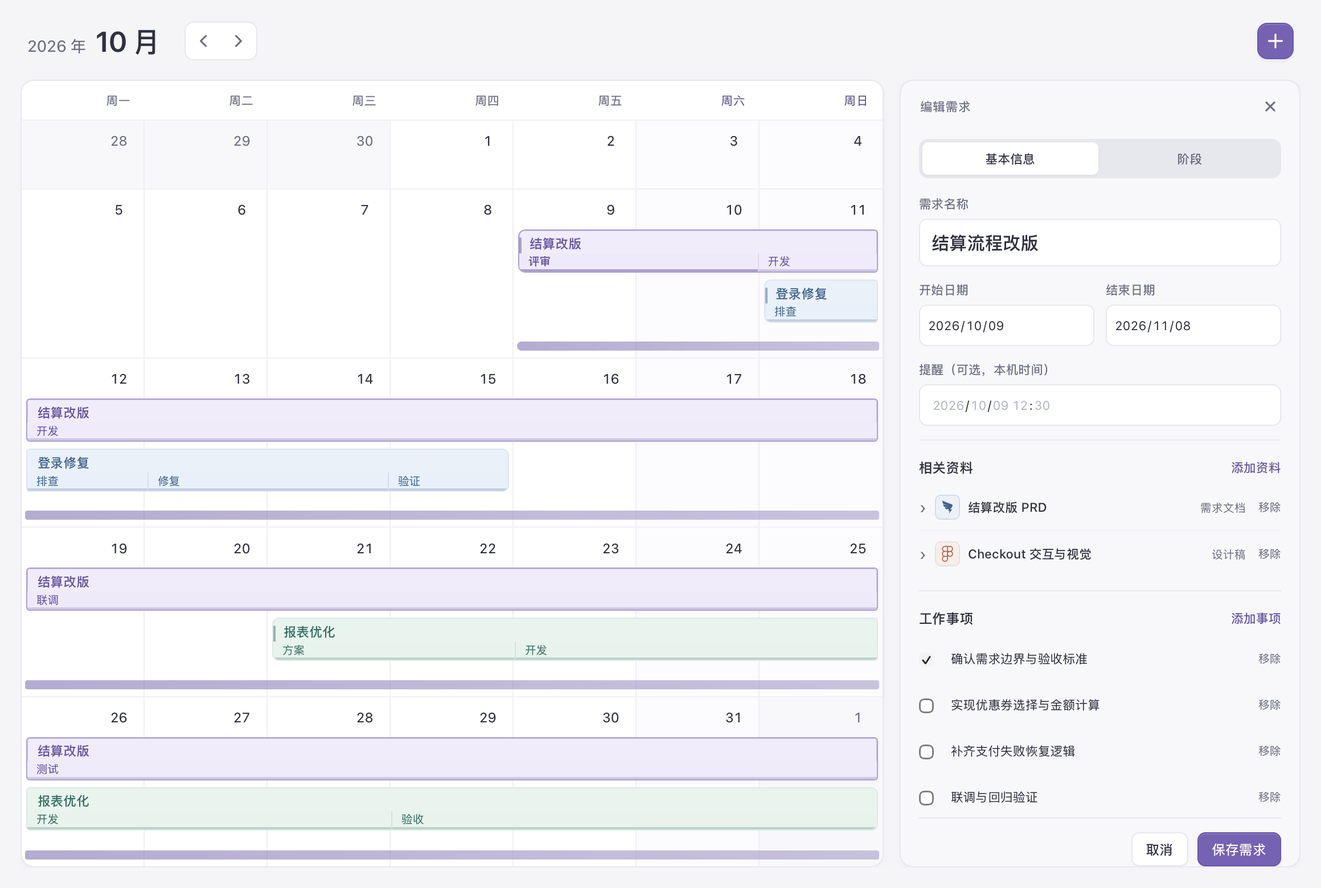
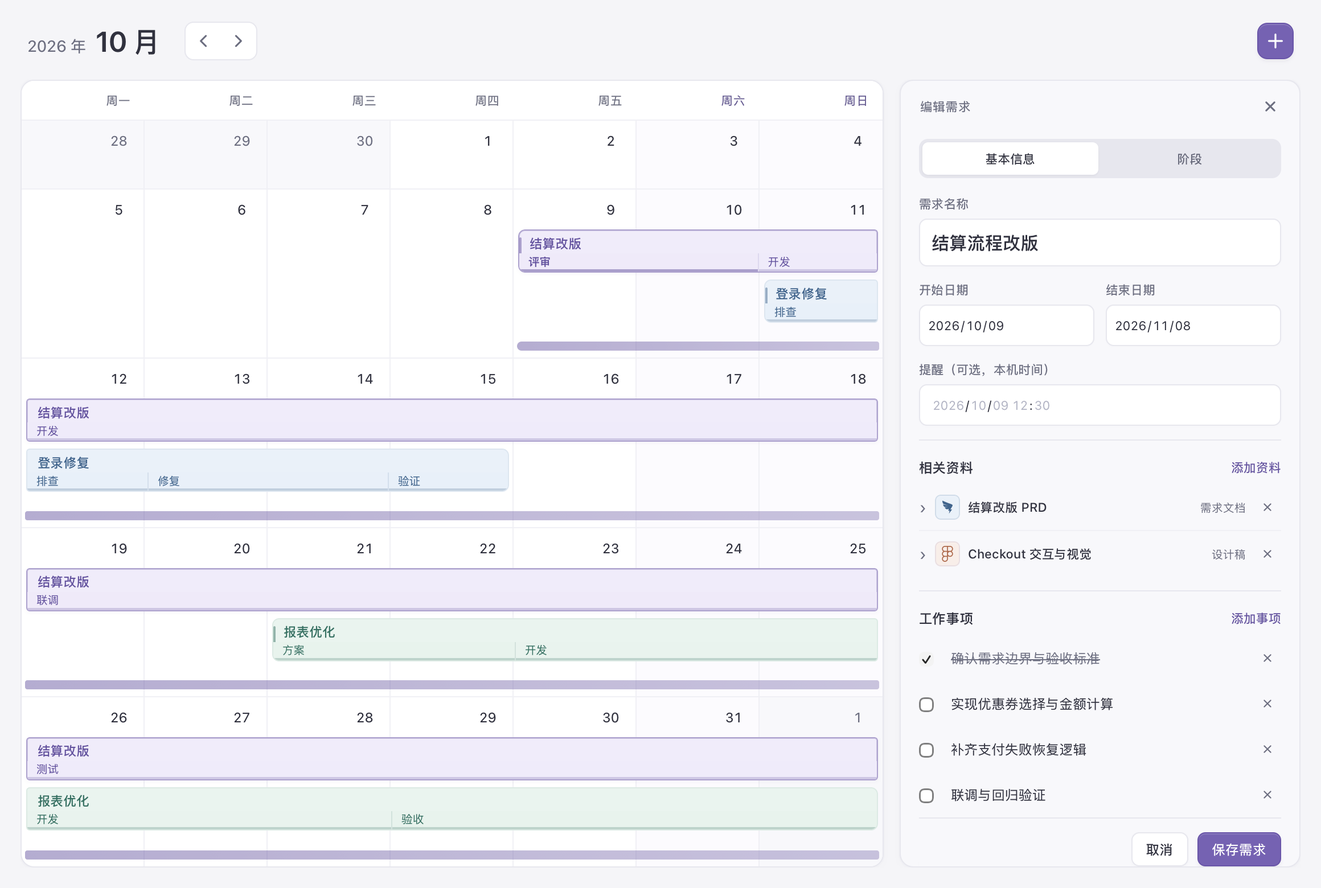
refine: simplify editor row actions and completion cues
Replace repeated removal text with consistent visible icon buttons, named tooltips and accessible labels that follow edited row names. Keep dedicated action targets and compact row spacing while making task text more readable and completed work distinct.

Verify isolated native row removal, neighboring and empty-list focus, draft discard, saved task completion and phase/resource associations in both appearances. Refresh actual editor screenshots and record focused-CSS verification limits.

Changed region(s): [[0.7138, 0.7385, 0.8379, 0.8], [0.7138, 0.8308, 0.8379, 0.8615], [0.7138, 0.8923, 0.8069, 0.9231]]

diff --git a/index.html b/index.html
@@ -30,6 +30,7 @@ html,body { margin:0; min-height:100%; background:light-dark(#f5f5f8,#191b20); }
  --rf-inspector-width:352px;
  --rf-row-height:136px;
  --rf-weekday-height:35px;
+ --rf-remove-size:24px;
  --rf-ease:cubic-bezier(.22,.7,.25,1);
  display:flex; flex-direction:column; height:100vh; min-height:0; overflow:hidden;
  font:13px/1.5 -apple-system,BlinkMacSystemFont,"Segoe UI",sans-serif;
@@ -201,11 +202,14 @@ html.native #req-calendar-refined .rf-week { height:auto; min-height:calc(54px +
 #req-calendar-refined .rf-summary-name { flex:1; min-width:0; font-weight:500; overflow:hidden; text-overflow:ellipsis; white-space:nowrap; }
 #req-calendar-refined .rf-summary-meta { flex:none; max-width:90px; font-size:10px; color:var(--rf-muted); overflow:hidden; text-overflow:ellipsis; white-space:nowrap; }
 #req-calendar-refined .rf-item-fields { display:grid; gap:9px; padding:5px 0 12px; }
-#req-calendar-refined .rf-editor-item>.rf-remove { position:absolute; top:10px; right:0; }
-#req-calendar-refined .rf-remove { padding:2px 0; font-size:10px; color:var(--rf-muted); }
-#req-calendar-refined .rf-remove:hover { color:light-dark(#a55662,#eca4b1); }
-#req-calendar-refined .rf-task-edit { display:grid; grid-template-columns:13px minmax(0,1fr) auto; align-items:center; gap:7px; padding:5px 0; }
-#req-calendar-refined .rf-task-edit input[type=text] { width:100%; min-width:0; padding:6px 7px; background:var(--rf-soft); border:1px solid transparent; border-radius:5px; font-size:11px; }
+#req-calendar-refined .rf-editor-item>.rf-remove { position:absolute; top:8px; right:0; }
+#req-calendar-refined .rf-remove { display:grid; place-items:center; flex:none; width:var(--rf-remove-size); height:var(--rf-remove-size); padding:0; border-radius:5px; color:var(--rf-muted); }
+#req-calendar-refined .rf-remove svg { width:14px; height:14px; stroke-width:1.5; }
+#req-calendar-refined .rf-remove:hover,#req-calendar-refined .rf-remove:focus-visible { color:light-dark(#a55662,#eca4b1); background:light-dark(#f5e9ed,#422b34); }
+#req-calendar-refined .rf-remove:active { background:light-dark(#efdae1,#55313f); }
+#req-calendar-refined .rf-task-edit { display:grid; grid-template-columns:13px minmax(0,1fr) var(--rf-remove-size); align-items:center; gap:7px; padding:4px 0; }
+#req-calendar-refined .rf-task-edit input[type=text] { width:100%; min-width:0; padding:6px 7px; background:transparent; border:1px solid transparent; border-radius:5px; font-size:12px; }
+#req-calendar-refined .rf-task-edit:has(input:checked) input[type=text]:not(:focus) { color:var(--rf-muted); text-decoration:line-through; }
 #req-calendar-refined .rf-task-edit input[type=text]:focus { outline:1px solid var(--rf-purple); background:var(--rf-bg); }
 #req-calendar-refined .rf-form-actions { position:sticky; bottom:-16px; z-index:2; flex:none; display:flex; justify-content:flex-end; gap:8px; margin-top:0; padding:12px 0 0; border-top:1px solid var(--rf-line); background:var(--rf-panel-surface); box-shadow:0 16px 0 var(--rf-panel-surface); }
 #req-calendar-refined .rf-form :is(input,textarea,summary) { scroll-margin-top:58px; scroll-margin-bottom:58px; }
@@ -271,6 +275,7 @@ html.native #req-calendar-refined .rf-week { height:auto; min-height:calc(54px +
  #req-calendar-refined .rf-detail-columns { display:block; }
 }
 @media(pointer:coarse) {
+ #req-calendar-refined { --rf-remove-size:40px; }
  #req-calendar-refined :is(.rf-arrow,.rf-close,.rf-add,.rf-button,.rf-text-button,.rf-remove,.rf-editor-tab) { min-width:40px; min-height:40px; }
  #req-calendar-refined .rf-editor-item>.rf-remove { top:0; }
  #req-calendar-refined .rf-item-summary { min-height:44px; padding-right:42px; }
@@ -639,6 +644,7 @@ window.CalendarReady=(async()=>{
  const {parse,iso,add,days,format,validDate}=Model,req=id=>requirements.find(r=>r.id===id);
  const el=(tag,cls,text)=>{const n=document.createElement(tag);if(cls)n.className=cls;if(text!==undefined)n.textContent=text;return n;};
  const button=(cls,text,label,action)=>{const b=el('button',cls+' cursor-interaction',text);b.type='button';if(label)b.setAttribute('aria-label',label);b.addEventListener('click',action);return b;};
+ const removeButton=(kind,name,action)=>{const control=button('rf-remove','',null,action);control.append(get('rf-close').querySelector('svg').cloneNode(true));const label=()=>{control.title='移除'+kind+'：'+(name.value.trim()||'未命名'+kind);control.setAttribute('aria-label',control.title);};name.addEventListener('input',label);label();return control;};
  const field=(label,input)=>{const l=el('label','rf-field');l.append(el('span','',label),input);return l;};
  const input=(type,value='',placeholder='')=>{const n=el('input');n.type=type;n.value=value;n.placeholder=placeholder;if(type==='date'){n.min='0001-01-01';n.max='9999-12-31';}else if(type==='datetime-local'){n.min='0001-01-01T00:00';n.max='9999-12-31T23:59';}return n;};
  let storage=null;try{storage=window.localStorage;}catch{}
@@ -702,7 +708,7 @@ window.CalendarReady=(async()=>{
    const updateSummary=()=>{if(summaryIcon){const icon=symbolForResource(row);void siteIcons.apply(summaryIcon,row.url.value,icon,{fetch:false});}summaryName.title=name.value;summaryName.textContent=name.value.trim()||(kind==='phase'?'未命名阶段':'未命名资料');summaryMeta.textContent=kind==='phase'?(row.start.value&&row.end.value?rangeText(row.start.value,row.end.value):'设置日期'):row.type.value.trim()||'自定义资料';};
    updateSummary();fields.addEventListener('input',updateSummary);if(summaryIcon)fields.addEventListener('change',()=>{const icon=symbolForResource(row);void siteIcons.apply(summaryIcon,row.url.value,icon);});fields.addEventListener('invalid',()=>{disclosure.open=true;},true);
    disclosure.addEventListener('toggle',()=>{if(disclosure.open)rows.forEach(other=>{if(other!==row)other.disclosure.open=false;});});
-   disclosure.append(summary,fields);item.append(disclosure,button('rf-remove','移除',kind==='phase'?'移除此阶段':'移除此资料',()=>{const index=rows.indexOf(row);item.remove();rows.splice(index,1);(rows[index]?.disclosure.querySelector('summary')||rows[index-1]?.disclosure.querySelector('summary')||head.querySelector('button')).focus();}));rows.push(row);list.append(item);
+   disclosure.append(summary,fields);item.append(disclosure,removeButton(kind==='phase'?'阶段':'资料',name,()=>{const index=rows.indexOf(row);item.remove();rows.splice(index,1);(rows[index]?.disclosure.querySelector('summary')||rows[index-1]?.disclosure.querySelector('summary')||head.querySelector('button')).focus();}));rows.push(row);list.append(item);
    if(expand){rows.forEach(other=>other.disclosure.open=other===row);name.focus({preventScroll:true});}
   }
   initial.forEach(value=>addItem(value));
@@ -769,7 +775,7 @@ window.CalendarReady=(async()=>{
  get('rf-discard-save').addEventListener('click',async()=>{get('rf-discard').close();const ok=await editor?.submit();if(!ok)pendingAction=null;});
  window.addEventListener('beforeunload',event=>{if(editor?.isDirty()){event.preventDefault();event.returnValue='';}});
  function taskEditor(draft){const section=el('section','rf-editor-section'),heading=el('div','rf-heading'),list=el('div');heading.append(el('h3','','工作事项'),button('rf-text-button','添加事项',null,()=>append('',false,true)));section.append(heading,list);
-  function append(text,done,focus=false){const row=el('div','rf-task-edit'),check=input('checkbox'),name=input('text',text,'可验收的具体事项');check.checked=done;check.setAttribute('aria-label','事项已完成');name.setAttribute('aria-label','事项内容');name.required=true;name.maxLength=200;row.append(check,name,button('rf-remove','移除','移除此事项',()=>{const next=row.nextElementSibling?.querySelector('input[type=text]')||row.previousElementSibling?.querySelector('input[type=text]');row.remove();(next||heading.querySelector('button')).focus();}));list.append(row);if(focus)name.focus();}
+  function append(text,done,focus=false){const row=el('div','rf-task-edit'),check=input('checkbox'),name=input('text',text,'可验收的具体事项');check.checked=done;check.setAttribute('aria-label','事项已完成');name.setAttribute('aria-label','事项内容');name.required=true;name.maxLength=200;row.append(check,name,removeButton('事项',name,()=>{const next=row.nextElementSibling?.querySelector('input[type=text]')||row.previousElementSibling?.querySelector('input[type=text]');row.remove();(next||heading.querySelector('button')).focus();}));list.append(row);if(focus)name.focus();}
   draft.tasks.forEach((text,i)=>append(text,draft.done[i]));return section;
  }
  async function deleteRequirement(id,force=false){if(saving)return false;if(!force&&editor?.isDirty()){mayLeave(()=>deleteRequirement(id,true));return false;}const item=req(id);if(!item)return;const next=requirements.filter(r=>r.id!==id);setSaving(true);const ok=await save(next);setSaving(false);if(!ok)return;requirements=next;deleted=structuredClone(item);closePanel(true);render();get('rf-toast-text').textContent='已删除“'+item.title+'”';get('rf-toast').hidden=false;}

diff --git a/tests/desktop-editor-rows.js b/tests/desktop-editor-rows.js
@@ -1,0 +1,49 @@
+// Exercise row removal, focus and saved associations with the real isolated file bridge.
+const checks=[], $=s=>document.querySelector(s), $$=s=>Array.from(document.querySelectorAll(s));
+const assert=(value,message)=>{if(!value)throw new Error(message);checks.push(message);};
+const settle=async()=>{document.getAnimations().forEach(a=>a.finish());await new Promise(resolve=>setTimeout(resolve,30));document.getAnimations().forEach(a=>a.finish());};
+const set=(node,value)=>{node.value=value;node.dispatchEvent(new Event('input',{bubbles:true}));};
+const click=text=>$$('button').find(node=>node.textContent===text).click();
+const snapshot=()=>JSON.parse(CalendarApp.exportSnapshot());
+const fixture={id:'rows',title:'接口迁移与兼容回归',tone:'blue',start:'2026-10-01',end:'2026-10-31',phases:[{name:'评审',start:'2026-10-01',end:'2026-10-03'},{name:'开发',start:'2026-10-05',end:'2026-10-23'},{name:'测试',start:'2026-10-26',end:'2026-10-31'}],resources:[{name:'接口约定',type:'接口',url:'https://example.com/api'},{name:'迁移方案',type:'文档',url:''},{name:'回归记录',type:'自定义',url:''}],tasks:['确认兼容边界','迁移服务调用','补齐回归用例'],done:[true,false,true],note:''};
+assert(await CalendarApp.restoreSnapshot(JSON.stringify({version:6,anchor:'2026-10-01',requirements:[fixture]})),'isolated row fixture restored');
+const original=CalendarApp.exportSnapshot();CalendarApp.editRequirement('rows');await settle();
+const resources=()=>$$('[data-editor-panel=basic] .rf-editor-item'),tasks=()=>$$('.rf-task-edit'),phases=()=>$$('[data-editor-panel=phases] .rf-editor-item');
+const remove=row=>row.querySelector('.rf-remove'),name=row=>row.querySelector('input[type=text]');
+assert($$('.rf-remove').every(control=>control.querySelector('svg[aria-hidden=true]')&&control.title===control.getAttribute('aria-label')&&control.title.includes('：')&&!control.textContent),'every icon action has a named target and tooltip without repeated row text');
+assert([...resources(),...tasks()].every(row=>{const control=remove(row);control.scrollIntoView({block:'center'});const bounds=control.getBoundingClientRect();return bounds.width>=24&&bounds.height>=24&&document.elementFromPoint(bounds.x+bounds.width/2,bounds.y+bounds.height/2)?.closest('.rf-remove')===control;}),'visible row actions retain independently hittable targets');
+assert(!CalendarApp.hasUnsavedChanges()&&CalendarApp.exportSnapshot()===original,'rendering icon actions does not dirty or change the requirement');
+remove(resources()[1]).click();await settle();
+assert(resources().length===2&&document.activeElement===resources()[1].querySelector('summary')&&!resources()[1].querySelector('details').open,'removing a middle resource focuses the following collapsed row');
+assert(CalendarApp.exportSnapshot()===original&&CalendarApp.hasUnsavedChanges(),'row removal remains a draft until saved');
+resources()[0].querySelector('details').open=true;set(name(resources()[0]),'接口约定修订');
+assert(remove(resources()[0]).getAttribute('aria-label')==='移除资料：接口约定修订'&&remove(resources()[0]).title==='移除资料：接口约定修订','renaming a row keeps its accessible removal target current');
+resources()[0].querySelector('details').open=false;await settle();
+assert(getComputedStyle(name(tasks()[0])).textDecorationLine.includes('line-through')&&!getComputedStyle(name(tasks()[1])).textDecorationLine.includes('line-through'),'completed and pending tasks have distinct readable editing states');
+name(tasks()[0]).focus();await settle();
+const taskFocusStyle=name(tasks()[0]).matches(':focus')?!getComputedStyle(name(tasks()[0])).textDecorationLine.includes('line-through'):null;
+assert(document.activeElement===name(tasks()[0])&&tasks()[0].querySelector('input[type=checkbox]').checked,'focusing completed task text preserves its completion');
+if(taskFocusStyle!==null)assert(taskFocusStyle,'focused completed task text has no strike');
+remove(tasks()[1]).click();await settle();
+assert(tasks().length===2&&document.activeElement===name(tasks()[1]),'removing a middle task focuses the next task text');
+click('阶段');await settle();remove(phases()[1]).click();await settle();
+assert(phases().length===2&&document.activeElement===phases()[1].querySelector('summary'),'removing a middle phase focuses the following stage');
+assert(await CalendarApp.command('save'),'the changed rows save through native persistence');await settle();
+const saved=snapshot().requirements[0];
+assert(saved.resources.map(row=>row.name).join('|')==='接口约定修订|回归记录'&&saved.resources[0].url===fixture.resources[0].url,'saved resources retain the correct names and destination');
+assert(saved.tasks.join('|')==='确认兼容边界|补齐回归用例'&&saved.done.every(Boolean)&&saved.done.length===2,'removing a task preserves the completion associated with each remaining task');
+assert(saved.phases.map(row=>row.name).join('|')==='评审|测试'&&saved.phases[1].start==='2026-10-26','remaining phase names and dates stay associated');
+assert($$('.rf-task').length===2&&$$('.rf-section')[2].querySelector('.rf-muted').textContent==='2 / 2','saved task completion agrees with the detail view');
+CalendarApp.editRequirement('rows');await settle();
+for(const row of resources())remove(row).click();await settle();
+assert(document.activeElement.textContent==='添加资料'&&!resources().length,'removing the final resource returns focus to adding a resource');
+for(const row of tasks())remove(row).click();await settle();
+assert(document.activeElement.textContent==='添加事项'&&!tasks().length,'removing the final task returns focus to adding a task');
+click('阶段');await settle();for(const row of phases())remove(row).click();await settle();
+assert(document.activeElement.textContent==='添加阶段'&&!phases().length,'removing the final stage returns focus to adding a stage');
+click('取消');assert($('#rf-discard').open,'cancelling removed rows still protects the unsaved draft');$('#rf-discard-drop').click();await settle();
+assert(JSON.stringify(snapshot().requirements[0])===JSON.stringify(saved),'discarding row removals preserves the last saved requirement');
+await webkit.messageHandlers.calendar.postMessage({action:'verifyWindow',save:true});await settle();CalendarApp.editRequirement('rows');await settle();
+assert(document.documentElement.scrollHeight<=innerHeight+1&&document.documentElement.scrollWidth<=innerWidth+1&&[...resources(),...tasks()].every(row=>{const a=remove(row).getBoundingClientRect(),b=row.getBoundingClientRect();return a.left>=b.left&&a.right<=b.right+1&&a.top>=b.top-1&&a.bottom<=b.bottom+1;}),'small-window rows contain their action targets without page overflow');
+assert(!!$('.rf-range-preview.is-visible')&&!CalendarApp.hasUnsavedChanges(),'row refinements retain a clean editor and persistent calendar strip');
+return {checks,appearance:matchMedia('(prefers-color-scheme:dark)').matches?'dark':'light',focusedTaskStyleVerified:taskFocusStyle,scope:'actual WebKit geometry, activeElement, computed styles and isolated native persistence using synthetic activation; focused CSS is only checked if WebKit matches :focus; not trusted pointer or animation evidence'};

diff --git a/src/app.js b/src/app.js
@@ -7,6 +7,7 @@ window.CalendarReady=(async()=>{
  const {parse,iso,add,days,format,validDate}=Model,req=id=>requirements.find(r=>r.id===id);
  const el=(tag,cls,text)=>{const n=document.createElement(tag);if(cls)n.className=cls;if(text!==undefined)n.textContent=text;return n;};
  const button=(cls,text,label,action)=>{const b=el('button',cls+' cursor-interaction',text);b.type='button';if(label)b.setAttribute('aria-label',label);b.addEventListener('click',action);return b;};
+ const removeButton=(kind,name,action)=>{const control=button('rf-remove','',null,action);control.append(get('rf-close').querySelector('svg').cloneNode(true));const label=()=>{control.title='移除'+kind+'：'+(name.value.trim()||'未命名'+kind);control.setAttribute('aria-label',control.title);};name.addEventListener('input',label);label();return control;};
  const field=(label,input)=>{const l=el('label','rf-field');l.append(el('span','',label),input);return l;};
  const input=(type,value='',placeholder='')=>{const n=el('input');n.type=type;n.value=value;n.placeholder=placeholder;if(type==='date'){n.min='0001-01-01';n.max='9999-12-31';}else if(type==='datetime-local'){n.min='0001-01-01T00:00';n.max='9999-12-31T23:59';}return n;};
  let storage=null;try{storage=window.localStorage;}catch{}
@@ -70,7 +71,7 @@ window.CalendarReady=(async()=>{
    const updateSummary=()=>{if(summaryIcon){const icon=symbolForResource(row);void siteIcons.apply(summaryIcon,row.url.value,icon,{fetch:false});}summaryName.title=name.value;summaryName.textContent=name.value.trim()||(kind==='phase'?'未命名阶段':'未命名资料');summaryMeta.textContent=kind==='phase'?(row.start.value&&row.end.value?rangeText(row.start.value,row.end.value):'设置日期'):row.type.value.trim()||'自定义资料';};
    updateSummary();fields.addEventListener('input',updateSummary);if(summaryIcon)fields.addEventListener('change',()=>{const icon=symbolForResource(row);void siteIcons.apply(summaryIcon,row.url.value,icon);});fields.addEventListener('invalid',()=>{disclosure.open=true;},true);
    disclosure.addEventListener('toggle',()=>{if(disclosure.open)rows.forEach(other=>{if(other!==row)other.disclosure.open=false;});});
-   disclosure.append(summary,fields);item.append(disclosure,button('rf-remove','移除',kind==='phase'?'移除此阶段':'移除此资料',()=>{const index=rows.indexOf(row);item.remove();rows.splice(index,1);(rows[index]?.disclosure.querySelector('summary')||rows[index-1]?.disclosure.querySelector('summary')||head.querySelector('button')).focus();}));rows.push(row);list.append(item);
+   disclosure.append(summary,fields);item.append(disclosure,removeButton(kind==='phase'?'阶段':'资料',name,()=>{const index=rows.indexOf(row);item.remove();rows.splice(index,1);(rows[index]?.disclosure.querySelector('summary')||rows[index-1]?.disclosure.querySelector('summary')||head.querySelector('button')).focus();}));rows.push(row);list.append(item);
    if(expand){rows.forEach(other=>other.disclosure.open=other===row);name.focus({preventScroll:true});}
   }
   initial.forEach(value=>addItem(value));
@@ -137,7 +138,7 @@ window.CalendarReady=(async()=>{
  get('rf-discard-save').addEventListener('click',async()=>{get('rf-discard').close();const ok=await editor?.submit();if(!ok)pendingAction=null;});
  window.addEventListener('beforeunload',event=>{if(editor?.isDirty()){event.preventDefault();event.returnValue='';}});
  function taskEditor(draft){const section=el('section','rf-editor-section'),heading=el('div','rf-heading'),list=el('div');heading.append(el('h3','','工作事项'),button('rf-text-button','添加事项',null,()=>append('',false,true)));section.append(heading,list);
-  function append(text,done,focus=false){const row=el('div','rf-task-edit'),check=input('checkbox'),name=input('text',text,'可验收的具体事项');check.checked=done;check.setAttribute('aria-label','事项已完成');name.setAttribute('aria-label','事项内容');name.required=true;name.maxLength=200;row.append(check,name,button('rf-remove','移除','移除此事项',()=>{const next=row.nextElementSibling?.querySelector('input[type=text]')||row.previousElementSibling?.querySelector('input[type=text]');row.remove();(next||heading.querySelector('button')).focus();}));list.append(row);if(focus)name.focus();}
+  function append(text,done,focus=false){const row=el('div','rf-task-edit'),check=input('checkbox'),name=input('text',text,'可验收的具体事项');check.checked=done;check.setAttribute('aria-label','事项已完成');name.setAttribute('aria-label','事项内容');name.required=true;name.maxLength=200;row.append(check,name,removeButton('事项',name,()=>{const next=row.nextElementSibling?.querySelector('input[type=text]')||row.previousElementSibling?.querySelector('input[type=text]');row.remove();(next||heading.querySelector('button')).focus();}));list.append(row);if(focus)name.focus();}
   draft.tasks.forEach((text,i)=>append(text,draft.done[i]));return section;
  }
  async function deleteRequirement(id,force=false){if(saving)return false;if(!force&&editor?.isDirty()){mayLeave(()=>deleteRequirement(id,true));return false;}const item=req(id);if(!item)return;const next=requirements.filter(r=>r.id!==id);setSaving(true);const ok=await save(next);setSaving(false);if(!ok)return;requirements=next;deleted=structuredClone(item);closePanel(true);render();get('rf-toast-text').textContent='已删除“'+item.title+'”';get('rf-toast').hidden=false;}

diff --git a/src/styles.css b/src/styles.css
@@ -22,6 +22,7 @@ html,body { margin:0; min-height:100%; background:light-dark(#f5f5f8,#191b20); }
  --rf-inspector-width:352px;
  --rf-row-height:136px;
  --rf-weekday-height:35px;
+ --rf-remove-size:24px;
  --rf-ease:cubic-bezier(.22,.7,.25,1);
  display:flex; flex-direction:column; height:100vh; min-height:0; overflow:hidden;
  font:13px/1.5 -apple-system,BlinkMacSystemFont,"Segoe UI",sans-serif;
@@ -193,11 +194,14 @@ html.native #req-calendar-refined .rf-week { height:auto; min-height:calc(54px +
 #req-calendar-refined .rf-summary-name { flex:1; min-width:0; font-weight:500; overflow:hidden; text-overflow:ellipsis; white-space:nowrap; }
 #req-calendar-refined .rf-summary-meta { flex:none; max-width:90px; font-size:10px; color:var(--rf-muted); overflow:hidden; text-overflow:ellipsis; white-space:nowrap; }
 #req-calendar-refined .rf-item-fields { display:grid; gap:9px; padding:5px 0 12px; }
-#req-calendar-refined .rf-editor-item>.rf-remove { position:absolute; top:10px; right:0; }
-#req-calendar-refined .rf-remove { padding:2px 0; font-size:10px; color:var(--rf-muted); }
-#req-calendar-refined .rf-remove:hover { color:light-dark(#a55662,#eca4b1); }
-#req-calendar-refined .rf-task-edit { display:grid; grid-template-columns:13px minmax(0,1fr) auto; align-items:center; gap:7px; padding:5px 0; }
-#req-calendar-refined .rf-task-edit input[type=text] { width:100%; min-width:0; padding:6px 7px; background:var(--rf-soft); border:1px solid transparent; border-radius:5px; font-size:11px; }
+#req-calendar-refined .rf-editor-item>.rf-remove { position:absolute; top:8px; right:0; }
+#req-calendar-refined .rf-remove { display:grid; place-items:center; flex:none; width:var(--rf-remove-size); height:var(--rf-remove-size); padding:0; border-radius:5px; color:var(--rf-muted); }
+#req-calendar-refined .rf-remove svg { width:14px; height:14px; stroke-width:1.5; }
+#req-calendar-refined .rf-remove:hover,#req-calendar-refined .rf-remove:focus-visible { color:light-dark(#a55662,#eca4b1); background:light-dark(#f5e9ed,#422b34); }
+#req-calendar-refined .rf-remove:active { background:light-dark(#efdae1,#55313f); }
+#req-calendar-refined .rf-task-edit { display:grid; grid-template-columns:13px minmax(0,1fr) var(--rf-remove-size); align-items:center; gap:7px; padding:4px 0; }
+#req-calendar-refined .rf-task-edit input[type=text] { width:100%; min-width:0; padding:6px 7px; background:transparent; border:1px solid transparent; border-radius:5px; font-size:12px; }
+#req-calendar-refined .rf-task-edit:has(input:checked) input[type=text]:not(:focus) { color:var(--rf-muted); text-decoration:line-through; }
 #req-calendar-refined .rf-task-edit input[type=text]:focus { outline:1px solid var(--rf-purple); background:var(--rf-bg); }
 #req-calendar-refined .rf-form-actions { position:sticky; bottom:-16px; z-index:2; flex:none; display:flex; justify-content:flex-end; gap:8px; margin-top:0; padding:12px 0 0; border-top:1px solid var(--rf-line); background:var(--rf-panel-surface); box-shadow:0 16px 0 var(--rf-panel-surface); }
 #req-calendar-refined .rf-form :is(input,textarea,summary) { scroll-margin-top:58px; scroll-margin-bottom:58px; }
@@ -263,6 +267,7 @@ html.native #req-calendar-refined .rf-week { height:auto; min-height:calc(54px +
  #req-calendar-refined .rf-detail-columns { display:block; }
 }
 @media(pointer:coarse) {
+ #req-calendar-refined { --rf-remove-size:40px; }
  #req-calendar-refined :is(.rf-arrow,.rf-close,.rf-add,.rf-button,.rf-text-button,.rf-remove,.rf-editor-tab) { min-width:40px; min-height:40px; }
  #req-calendar-refined .rf-editor-item>.rf-remove { top:0; }
  #req-calendar-refined .rf-item-summary { min-height:44px; padding-right:42px; }

diff --git a/docs/OPTIMIZATION_LOG.md b/docs/OPTIMIZATION_LOG.md
@@ -300,3 +300,12 @@ CALENDAR_VERIFY_OUTPUT=/tmp/calendar-permission-pending.json \
 最终构建通过浅/深色固定日期各 20 条、导航各 21 条、综合桌面各 49 条，以及页面构建、原生签名和包内一致性检查。20 条检查包含列边界覆盖、点击、跨周拖动、取消、失焦后的尾随点击、周交接、小窗口与定位可见性；亚像素列边界允许命中相邻日期，但不能穿透到条带，列中心另行验证准确日期。此前同批交互补修浅/深色各 20、周密度浅色 18、可读性浅/深色各 8、指针 6 在最终 1px 边缘修正之前通过，不冒充最终构建复测。
 
 浅/深色实际密集排期截图已查看并加入 README。测量使用隔离原生数据、WebKit 几何与合成指针（捕获 bookkeeping 桩）；静态端点截图不代表可信拖动手感或审美接受。此前暂缓的系统验收继续保留。
+
+
+## 编辑列表的层次与操作 · 2026-10-09
+
+资料、阶段与事项的行末操作统一为小型移除图标，减少每行重复的“移除”文字。复用现有关闭图形的笔画，按钮保持可见，桌面点击区域为 24×24px；粗指针样式使用 40px。提示与辅助名称包含实际条目名称，并随名称编辑更新。完成事项在未聚焦编辑时使用弱化文字与删除线，输入字号由 11px 调整为 12px，行距保持紧凑。
+
+新增浅/深色实际 WebKit 行操作各 23 条，覆盖独立命中区域、名称提示、删除中间与最后条目的焦点转移、草稿保护、保存后的资料/日期/完成状态对应关系、小窗口及持续日期条。最初焦点样式断言失败；探针确认 activeElement 正确但 :focus 不匹配，因此最终套件明确记录 focusedTaskStyleVerified 为 null，不把非活动 WebKit 的焦点对象检查冒充焦点 CSS 验证。探针数据保存在 verification/desktop-editor-rows-focus-scope.json；没有据此推断屏幕锁定。
+
+已有浅/深色编辑导航各 11、布局各 16、长内容各 19、可读性各 8、综合桌面各 49，以及浅色阅读连续性 17、交互补修 20、页面构建 1、原生签名/包内页面/许可一致性通过。unittest discover 最初匹配到 0 项，随后直接运行 tests/build.test.py，实际运行 1 项并通过；未把 0 项输出当作有效验证。浅/深色编辑截图已查看并刷新 README。未执行可信鼠标动画、真实通知点击、临时通知权限恢复或用户审美接受验收。

diff --git a/docs/COMPLETION_AUDIT.md b/docs/COMPLETION_AUDIT.md
@@ -159,3 +159,10 @@
 日期在所属周内固定于星期标题下方，跨周自然接替；修补列边界遮盖，保留原日期点击与拖动、持续范围条及完整需求/阶段。需求定位为两层标题预留空间。实际旧版与原型测量表明，滚动 930px 时日期从视口外 −149.25px 回到 106px。
 
 最终构建的固定日期浅/深色各 20、导航各 21、综合桌面各 49、页面构建及原生签名/包内一致性通过，密集排期浅/深色实际运行截图已查看。此前同批指针 6、交互补修各 20、浅色周密度 18、可读性各 8 在最终边缘修正前运行；未混列为最终构建复测。隔离数据与合成指针检查不代表可信鼠标动画、系统通知点击或用户审美接受，原暂缓项保持未完成。
+
+
+## 编辑列表的层次与操作（2026-10-09）
+
+行末移除图标统一资料、阶段与事项操作，按钮保留可见点击区域及随名称更新的提示；完成事项的编辑文字弱化，行高保持紧凑。新增实际 WebKit 浅/深色各 23 条，验证命中、焦点、删除/保存/放弃修改与完成状态对应关系、小窗口和持续日期条。非活动 WebKit 中 activeElement 正确而 :focus 不匹配，聚焦 CSS 分支记录为未验证。
+
+已有编辑导航各 11、布局各 16、长内容各 19、可读性各 8、综合桌面各 49、浅色阅读连续性 17、交互补修 20、页面构建 1、原生签名与包内一致性通过。编辑浅/深色实际截图已查看并刷新。合成操作与静态截图不证明可信鼠标、动画或审美接受；原系统暂缓项保持未完成。

diff --git a/README.md b/README.md
@@ -177,6 +177,8 @@ python3 -m http.server 8080 --bind 127.0.0.1
 
 把需求拆成可勾选的工作事项，记录完成数量；用备忘保存评审结论、阻塞原因、接口约定和验收注意点。详情同时展示阶段安排与当前阶段，方便恢复上下文。长条、详情状态与当前阶段沿用同组需求配色；未开始或计划已结束使用中性提示，具体状态以文字为准。
 
+编辑列表使用统一的行末移除图标，悬停提示会注明对应资料、阶段或事项名称；删除后焦点移至相邻条目，最后一项删除后回到添加入口。完成事项在详情与编辑中均保留勾选和弱化文字，方便区分待办。
+
 资料、事项和备忘都放在基本信息中。编辑面板只分为 **基本信息** 和 **阶段** 两页，超长内容在内部滚动。两页的切换控件在滚动时保持可见，切换后从对应内容顶部开始浏览。
 
 ![需求编辑界面：基本信息集中管理资料、工作事项与备忘](assets/desktop-editor.png)
